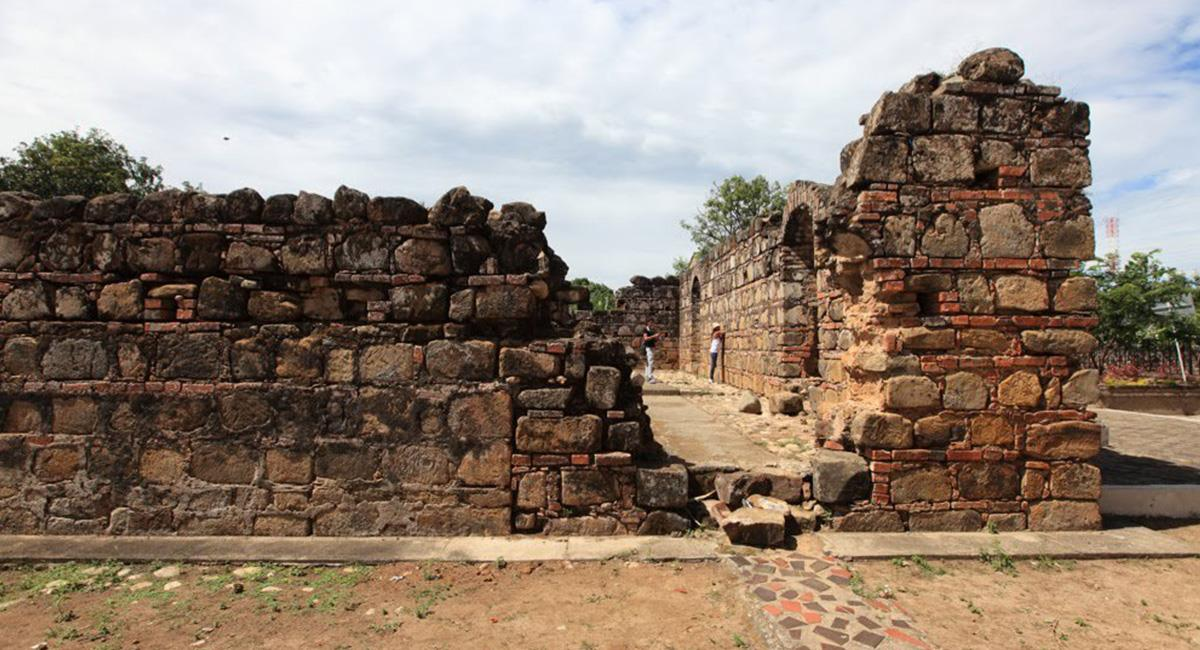
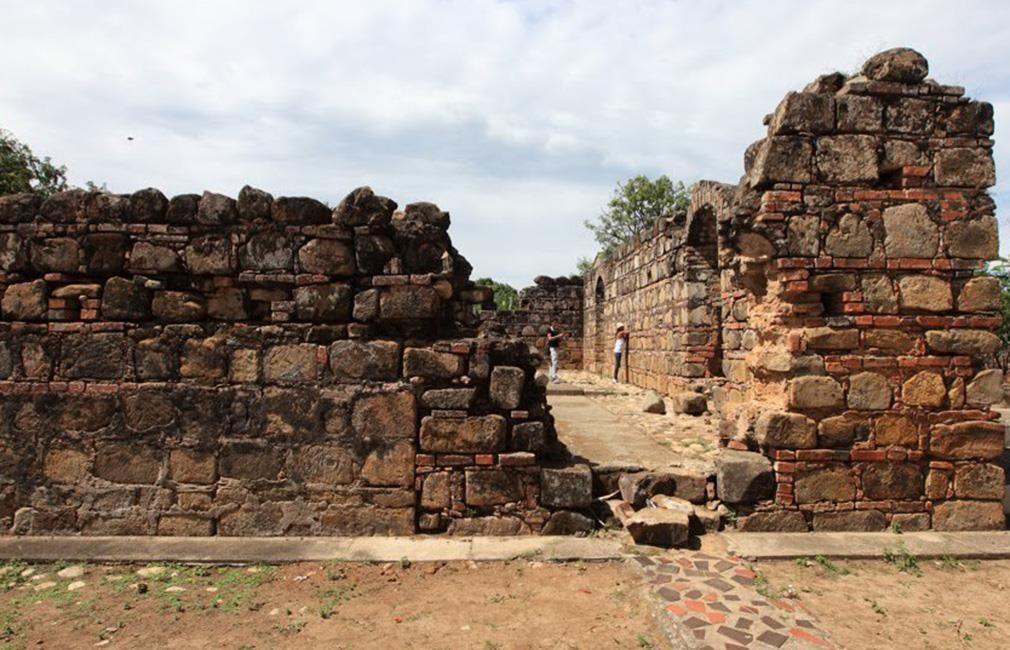
trabaje en  actividades familiares y lugares historicos en el componente de lugares-generales

diff --git a/src/app/pages/usuario/turismo/lugares-general/lugares-general.component.ts b/src/app/pages/usuario/turismo/lugares-general/lugares-general.component.ts
@@ -6,6 +6,7 @@ import { MatCardModule } from '@angular/material/card';
 import { MatButtonModule } from '@angular/material/button';
 import { MatFormFieldModule } from '@angular/material/form-field';
 import { MatSelectModule } from '@angular/material/select';
+import { LugaresHistoricosComponent } from '../lugares-historicos/lugares-historicos.component';
 
 @Component({
   selector: 'app-lugares-general',
@@ -124,7 +125,139 @@ export class LugaresGeneralComponent {
           imagenes: ['parque1.jpg', 'parque2.jpg', 'parque3.jpeg', 'parque4.jpeg'],
           fondo: 'mirador1.jpg'
         }
+      },
+       {
+        titulo: 'Oasis Eco Park',
+        imagen: 'oasis.png',
+        texto: 'Tauramena 4.5 km al norte de la Carrera 16.',
+        detalle: {
+          titulo: 'Oasis Eco Park',
+          descripcion: [
+            { tipo: 'subtitulo', contenido: 'HISTORIA' },
+            { tipo: 'texto', contenido: 'Oasis Eco-Park es un emocionante proyecto turístico nuevo que se encuentra en construcción en Tauramena, Casanare, Colombia. Si bien aún no está completamente desarrollado, ya ofrece varias atracciones interesantes, que incluyen deportes extremos, una piscina natural y una pista de cuatrimotos. Una vez que esté completamente abierto, Oasis Eco-Park seguramente será un destino popular para los amantes de la naturaleza y la aventura.' },
+            { tipo: 'subtitulo', contenido: 'Un lugar para relajarse' },
+            { tipo: 'texto', contenido: 'La piscina natural de Oasis Eco-Park es el lugar perfecto para refrescarte en un día caluroso. Las aguas cristalinas de la piscina son una vista refrescante. Disfruta de un refrescante baño o simplemente toma el sol junto a la piscina.'},
+            { tipo: 'texto', contenido: 'Disfruta de un paseo emocionante en la pista de cuatrimotos del parque (solo fines de semana). explora los senderos del parque en un vehículo todo terreno'},
+            { tipo: 'texto', contenido: 'Sube tu adrenalina con las actividades de deportes extremos del parque. Ponte a prueba en los Bici cables o en el puente tibetano, o espera a que la tirolesa y el columpio abran pronto.'},
+            { tipo: 'texto', contenido: 'Tómate un descanso del calor y disfruta de un refrescante baño en la piscina natural del parque. Las aguas cristalinas de la piscina son una vista refrescante y es el lugar perfecto para relajarse y tomar el sol. Acelera tu corazón con un emocionante paseo en cuatrimoto por la pista de tierra del parque. Explora los senderos del parque y desafía a tus amigos a una carrera. Esta actividad solo está disponible los fines de semana.'},
+            { tipo: 'texto', contenido: 'Bici cables: Disfruta de un paseo emocionante por los árboles en los Bici cables del parque.'},
+            { tipo: 'texto', contenido: 'Puente tibetano: Pon a prueba tu equilibrio y coraje en el puente tibetano del parque.'},
+            { tipo: 'texto', contenido: 'Columpio: Balanceate alto sobre los árboles en el columpio del parque.'},
+            { tipo: 'texto', contenido: 'Cuatrimotos: Compite con tus amigos y disfruta de un momento lleno de adrenalina'},
+          ],
+          imagenes: ['oasis1.png', 'oasis5.jpeg', 'oasis3.png', 'oasis4.png',],
+          fondo: 'oasis5.jpeg'
+        }
+      },
+       {
+        titulo: 'Villa Al Revés',
+        imagen: 'villa.jpg',
+        texto: 'Tauramena 5.5 km al norte de la Carrera 16.',
+        detalle: {
+          titulo: 'Villa Al Revés',
+          descripcion: [
+            { tipo: 'subtitulo', contenido: 'Explorar Villa Alreves' },
+            { tipo: 'texto', contenido: 'Esta villa al revés es una atracción turística ingeniosa. sus techos, paredes y pisos están colocados al revés desafiando la gravedad y jugando con la percepción visual de los visitantes ¡ es un lugar perfecto para tomar fotos divertidas! La atracción principal del parque son tres casas que están construidas completamente al revés. Esto significa que el techo está en el suelo, los muebles están en el techo y las personas caminan por las paredes. Es una experiencia única y divertida que te hará sentir como si estuvieras en otro mundo. Villa al Revés es un lugar perfecto para toda la familia. Los niños se divertirán explorando las casas al revés y jugando en los juegos, mientras que los adultos podrán relajarse y disfrutar del ambiente único del parque. Además de la villa, el clima y el paisaje en Tauramena son hermosos. Aprovecha para apreciar la naturaleza y respirar aire fresco.' },
+            { tipo: 'subtitulo', contenido: 'Cómo llegar a Villa al Revés' },
+            { tipo: 'texto', contenido: 'Villa al Revés se encuentra en la vía Yopal - Tauramena, a unos 10 kilómetros de Yopal, la capital del departamento de Casanare. El parque está abierto de lunes a domingo de 9:00 a. m. a 5:00 p. m. '},
+            { tipo: 'subtitulo', contenido: 'Valor de ingreso' },
+            { tipo: 'texto', contenido: ' La entrada a Villa al Revés tiene un costo de $10.000 para adultos y $5.000 para niños'},
+            { tipo: 'texto', contenido: 'sitio web: https://www.google.com/maps/place/Villa+al+Rev%C3%A9s/@5.0592921,-72.7523801,17z/data=!3m1!4b1!4m6!3m5!1s0x8e6ad96a6940d6c7:0xb7b6d07f008e99b5!8m2!3d5.0592921!4d-72.7498052!16s%2Fg%2F11tmvj6hfb?hl=es&entry=ttu&g_ep=EgoyMDI1MDUwNy4wIKXMDSoJLDEwMjExNDU1SAFQAw%3D%3D'},
+          ],
+          imagenes: ['villa1.jpg', 'villa2.jpg', 'villa3.jpg',],
+          fondo: 'villa3.jpg'
+        }
+      },
+       {
+        titulo: 'Arca de Noe',
+        imagen: 'arca.png',
+        texto: 'Vereda El Jagüito, Tauramena, Casanare.',
+        detalle: {
+          titulo: 'Arca de Noe',
+          descripcion: [
+            { tipo: 'subtitulo', contenido: 'Animate a Conocer' },
+            { tipo: 'texto', contenido: 'El Arca de Noé en Tauramena, Casanare, Colombia, es un parque temático que recrea la historia bíblica del arca de Noé, ubicada en la vereda El Jagüito. Este sitio turístico ofrece una experiencia educativa y recreativa donde se puede aprender sobre el relato del Génesis, disfrutar de un museo, una piscina y un mirador con vistas a la región.'},
+            { tipo: 'subtitulo', contenido: 'Actividades' },
+            { tipo: 'texto', contenido: 'Visitar el museo, disfrutar del mirador, relajarse en la piscina, comprar souvenirs y degustar productos locales.'},
+            { tipo: 'subtitulo', contenido: 'Consideraciones' },
+            { tipo: 'texto', contenido: 'El Arca de Noé en Tauramena es una atracción turística popular en la región de Casanare, que atrae a visitantes de todas las edades. Es un lugar ideal para aprender sobre la historia bíblica, disfrutar en familia y pasar un día agradable en un entorno natural.'},
+            { tipo: 'texto', contenido: 'sitio web: https://www.google.com/maps/place/Villa+al+Rev%C3%A9s/@5.0592921,-72.7523801,17z/data=!3m1!4b1!4m6!3m5!1s0x8e6ad96a6940d6c7:0xb7b6d07f008e99b5!8m2!3d5.0592921!4d-72.7498052!16s%2Fg%2F11tmvj6hfb?hl=es&entry=ttu&g_ep=EgoyMDI1MDUwNy4wIKXMDSoJLDEwMjExNDU1SAFQAw%3D%3D'},
+          ],
+          imagenes: ['arca2.png', 'arca5.png', 'arca3.png',],
+          fondo: 'arca1.png'
+        }
       }
+    ],
+    lugares_historicos: [
+      {
+        titulo: 'Museo Historico Del Oriente',
+        imagen: 'museo.jpg',
+        texto: 'Calle 29 # 20 - 41',
+        detalle: {
+          titulo: 'Museo Historico Del Oriente',
+          descripcion: [
+             { tipo: 'subtitulo', contenido: 'HISTORIA' },
+            { tipo: 'texto', contenido: 'El Museo Centro Histórico del Oriente es un museo ubicado en la ciudad de Yopal, Casanare, Colombia. El museo fue inaugurado en el año 2021 y tiene como objetivo preservar y difundir la historia y la cultura de la región del Piedemonte Llanero. Las colecciones del museo incluyen piezas arqueológicas, fotografías, documentos históricos y objetos de la vida cotidiana de los habitantes de la región. El museo también cuenta con una sala de exposiciones temporales y un auditorio donde se realizan conferencias, talleres y eventos culturales.' },
+            { tipo: 'subtitulo', contenido: 'Piezas arqueológicas' },
+            { tipo: 'texto', contenido: 'El museo cuenta con una colección de piezas arqueológicas que datan de la época precolombina. Estas piezas incluyen vasijas de cerámica, figuras de barro y herramientas de piedra.'},
+            { tipo: 'subtitulo', contenido: 'Fotografías' },
+            { tipo: 'texto', contenido: 'El museo cuenta con una amplia colección de fotografías que documentan la historia de la región del Piedemonte Llanero. Estas fotografías muestran la vida cotidiana de los habitantes de la región, los paisajes naturales y los eventos históricos más importantes.'},
+            { tipo: 'subtitulo', contenido: 'Documentos históricos' },
+            { tipo: 'texto', contenido: 'El museo cuenta con una colección de documentos históricos que datan de la época de la colonia española hasta la actualidad. Estos documentos incluyen actas de fundación, escrituras de propiedad y periódicos antiguos.'},
+            { tipo: 'subtitulo', contenido: 'Objetos de la vida cotidiana'},
+            { tipo: 'texto', contenido:'El museo cuenta con una colección de objetos de la vida cotidiana de los habitantes de la región del Piedemonte Llanero. Estos objetos incluyen herramientas de trabajo, ropa, muebles y utensilios de cocina.'},
+            { tipo: 'subtitulo', contenido: 'Valor de ingreso'},
+            { tipo: 'texto', contenido:'Precio de la entrada: $5.000 para adultos y $2.000 para niños'},
+            { tipo: 'subtitulo', contenido: 'Horario de atención'},
+            { tipo: 'texto', contenido:'Horario de atención: De martes a domingo de 8:00 a. m. a 5:00 p. m.'},
+            { tipo: 'texto', contenido: 'Sitio web: https://www.bing.com/search?q=sitio%20web%20del%20museo%20historico%20del%20oriente&qs=n&form=QBRE&sp=-1&ghc=1&lq=0&pq=sitio%20web%20del%20museo%20historico%20del%20oriente&sc=12-41&sk=&cvid=436BB737D5D2467F9F15E1376432DE9B' },
+          ],
+          imagenes: ['museo2.jpg', 'museo3.webp','museo4.jpeg','museo6.webp'],
+          fondo: 'museo1.jpg'
+        }
+      },
+       {
+        titulo: 'Ruinas De Pore',
+        imagen: 'pore.jpg',
+        texto: '70 km desde Yopal',
+        detalle: {
+          titulo: 'Ruina De Pore',
+          descripcion: [
+            { tipo: 'subtitulo', contenido: 'HISTORIA' },
+            { tipo: 'texto', contenido: 'En el municipio de Pore, Casanare, Colombia, se encuentran las Ruinas de Pore, vestigios de una antigua misión jesuítica fundada en el siglo XVII. Estas ruinas son un testimonio de la rica historia colonial de la región y un atractivo turístico que vale la pena visitar. La misión de Pore fue fundada en 1639 por los jesuitas españoles. Su objetivo era evangelizar a los indígenas de la región y enseñarles las costumbres y la religión católica. La misión prosperó durante varios años y llegó a tener una población de más de mil personas. Sin embargo, en 1767, los jesuitas fueron expulsados de Colombia y la misión fue abandonada.' },
+            { tipo: 'texto', contenido: 'Sitio web: https://satellites.pro/mapa_de_Municipio_Pore.Region_de_Casanare.Colombia#5.716098,-72.012634,14' },
+          ],
+          imagenes: ['pore7.jpg','pore6.jpg', 'pore5.jpg','pore3.jpg','pore4.jpg'],
+          fondo: 'pore2.png'
+        }
+      },
+       {
+        titulo: 'Monte De Jehová',
+        imagen: 'monte.jpg',
+        texto: 'vereda Buenavista, a 8 kilómetros del municipio de Yopal',
+        detalle: {
+          titulo: 'Monte De Jehová',
+          descripcion: [
+            { tipo: 'subtitulo', contenido: 'Descripción' },
+            { tipo: 'texto', contenido: 'El Monte de Jehová es un lugar religioso y turístico que alberga una escultura gigante de la Biblia tallada en piedra. La escultura tiene 19 metros de ancho y 12 metros de largo, y es considerada la Biblia más grande del mundo.' },
+            { tipo: 'subtitulo', contenido: 'Actividades' },
+            { tipo: 'texto', contenido: 'Admirar la escultura de la Biblia: La escultura es una obra de arte impresionante que vale la pena ver de cerca.' },
+            { tipo: 'texto', contenido: 'Orar y reflexionar: El Monte de Jehová es un lugar tranquilo y pacífico que es ideal para la oración y la reflexión' },
+            { tipo: 'texto', contenido: 'Disfrutar de las vistas: Desde el Monte de Jehová se pueden disfrutar de unas vistas panorámicas impresionantes de la región.' },
+            { tipo: 'texto', contenido: 'Hacer senderismo: Hay varios senderos para caminar en la zona que ofrecen diferentes niveles de dificultad.' },
+            { tipo: 'subtitulo', contenido: 'Horarios' },
+            { tipo: 'texto', contenido: 'Lunes a domingo de 7:01 a.m. a 5:00 p.m' },
+            { tipo: 'subtitulo', contenido: 'Información de contacto' },
+            { tipo: 'texto', contenido: 'Celular: 320 9420403' },
+            { tipo: 'texto', contenido: 'Sitio web: https://maps.google.com/?cid=18346910408072708299' },
+
+
+          ],
+          imagenes: ['pore7.jpg','pore6.jpg', 'pore5.jpg','pore3.jpg','pore4.jpg'],
+          fondo: 'pore2.png'
+        }
+      },
+
     ]
     // Agrega más categorías con objetos similares aquí
   };
